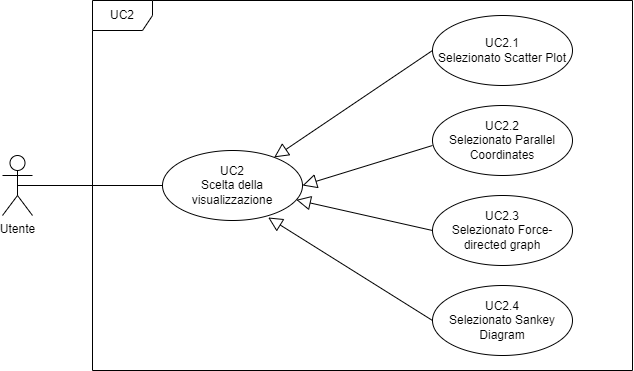
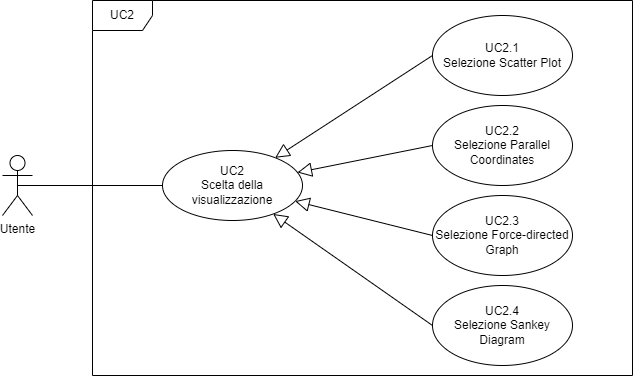
Corretto tempo verbale immagine + testo

diff --git a/documenti/Analisi-dei-requisiti/sezioni/casi_uso.tex b/documenti/Analisi-dei-requisiti/sezioni/casi_uso.tex
@@ -82,48 +82,48 @@ Non essendo richiesto nessun tipo di servizio di autenticazione o più in genera
     \end{itemize} 
 \end{itemize}
 
-\subsubsection{UC2.1 - Selezionato Scatter Plot}
+\subsubsection{UC2.1 - Selezione Scatter Plot}
 \label{sec:UC2.1}
 \begin{itemize}
     \item \textbf{Attore primario}: Utente.
     \item \textbf{Precondizioni}: Il ${\mathrm{dataset^{G}}}$ è stato caricato correttamente [UC2].
-    \item \textbf{Postcondizioni}: Viene mostrata la visualizzazione $Scatter$ $Plot^{G}$ scelta dall'utente con possibilità di selezionare una diversa vista$^{G}$ \hyperref[sec:UC3]{UC3} e personalizzare lo stile \hyperref[sec:UC5.1]{UC5.1}. %inserire il numero corretto dello stile e delle dimensioni
+    \item \textbf{Postcondizioni}: Viene mostrata la visualizzazione $Scatter$ $Plot^{G}$ scelta dall'utente con possibilità di selezionare una diversa vista$^{G}$ \hyperref[sec:UC3]{UC3} e personalizzare grafico e stile \hyperref[sec:UC5.1]{UC5.1}. %inserire il numero corretto dello stile e delle dimensioni
     \item \textbf{Scenario principale}:
           \begin{enumerate}
               \item L'utente seleziona il grafico $Scatter$ $Plot^{G}$ e il sistema ritorna tale grafico con conseguente possibilità di personalizzazione. 
           \end{enumerate}
 \end{itemize}
 
-\subsubsection{UC2.2 - Selezionato Parallel Coordinates}
+\subsubsection{UC2.2 - Selezione Parallel Coordinates}
 \label{sec:UC2.2}
 \begin{itemize}
     \item \textbf{Attore primario}: Utente.
     \item \textbf{Precondizioni}: Il ${\mathrm{dataset^{G}}}$ è stato caricato correttamente [UC2].
-    \item \textbf{Postcondizioni}: Viene mostrata la visualizzazione $Parallel$ $Coordinates^{G}$ scelta dall'utente con possibilità di selezionare una diversa vista$^{G}$ \hyperref[sec:UC3]{UC3} e personalizzare lo stile \hyperref[sec:UC5.2]{UC5.2}. %inserire il numero corretto dello stile e delle dimensioni
+    \item \textbf{Postcondizioni}: Viene mostrata la visualizzazione $Parallel$ $Coordinates^{G}$ scelta dall'utente con possibilità di selezionare una diversa vista$^{G}$ \hyperref[sec:UC3]{UC3} e personalizzare grafico e stile \hyperref[sec:UC5.2]{UC5.2}. %inserire il numero corretto dello stile e delle dimensioni
     \item \textbf{Scenario principale}:
           \begin{enumerate}
               \item L'utente seleziona il grafico $Parallel$ $Coordinates^{G}$ e il sistema ritorna tale grafico con conseguente possibilità di personalizzazione. 
           \end{enumerate}
 \end{itemize}
 
-\subsubsection{UC2.3 - Selezionato Force-directed Graph}
+\subsubsection{UC2.3 - Selezione Force-directed Graph}
 \label{sec:UC2.3}
 \begin{itemize}
     \item \textbf{Attore primario}: Utente.
     \item \textbf{Precondizioni}: Il ${\mathrm{dataset^{G}}}$ è stato caricato correttamente [UC2].
-    \item \textbf{Postcondizioni}: Viene mostrata la visualizzazione $Force-directed$ $Graph^{G}$ scelta dall'utente con possibilità di selezionare una diversa vista$^{G}$ \hyperref[sec:UC3]{UC3} e personalizzare lo stile \hyperref[sec:UC5.3]{UC5.3}. %inserire il numero corretto dello stile e delle dimensioni
+    \item \textbf{Postcondizioni}: Viene mostrata la visualizzazione $Force-directed$ $Graph^{G}$ scelta dall'utente con possibilità di selezionare una diversa vista$^{G}$ \hyperref[sec:UC3]{UC3} e personalizzare grafico e stile \hyperref[sec:UC5.3]{UC5.3}. %inserire il numero corretto dello stile e delle dimensioni
     \item \textbf{Scenario principale}:
           \begin{enumerate}
               \item L'utente seleziona il grafico $Force-directed$ $Graph^{G}$ e il sistema ritorna tale grafico con conseguente possibilità di personalizzazione. 
           \end{enumerate}
 \end{itemize}
 
-\subsubsection{UC2.4 - Selezionato Sankey Diagram}
+\subsubsection{UC2.4 - Selezione Sankey Diagram}
 \label{sec:UC2.4}
 \begin{itemize}
     \item \textbf{Attore primario}: Utente.
     \item \textbf{Precondizioni}: Il ${\mathrm{dataset^{G}}}$ è stato caricato correttamente [UC2].
-    \item \textbf{Postcondizioni}: Viene mostrata la visualizzazione $Sankey$ $Diagram^{G}$ scelta dall'utente con possibilità di selezionare una diversa vista$^{G}$ \hyperref[sec:UC3]{UC3} e personalizzare lo stile \hyperref[sec:UC5.4]{UC5.4}. %inserire il numero corretto dello stile e delle dimensioni
+    \item \textbf{Postcondizioni}: Viene mostrata la visualizzazione $Sankey$ $Diagram^{G}$ scelta dall'utente con possibilità di selezionare una diversa vista$^{G}$ \hyperref[sec:UC3]{UC3} e personalizzare grafico e stile \hyperref[sec:UC5.4]{UC5.4}. %inserire il numero corretto dello stile e delle dimensioni
     \item \textbf{Scenario principale}:
           \begin{enumerate}
               \item L'utente seleziona il grafico $Sankey$ $Diagram^{G}$ e il sistema ritorna tale grafico con conseguente possibilità di personalizzazione. 
@@ -252,7 +252,7 @@ Non essendo richiesto nessun tipo di servizio di autenticazione o più in genera
         \item Personalizzazione dello stile \hyperref[sec:UC5.1.2]{UC5.1.2}.
     \end{enumerate}
 \end{itemize}
-\paragraph{UC5.1.1 - Associazione delle ${\mathrm{dimensioni^{G}}}$ agli assi}
+\paragraph{UC5.1.1 - Associazione delle dimensioni agli assi}
 \label{sec:UC5.1.1}
     \begin{itemize}
         \item \textbf{Attore primario:} Utente.
@@ -302,7 +302,7 @@ Non essendo richiesto nessun tipo di servizio di autenticazione o più in genera
     \end{enumerate}
 \end{itemize}
 
-\paragraph{UC5.2.1 - Associazione delle ${\mathbf{dimensioni^{G}}}$}
+\paragraph{UC5.2.1 - Associazione delle dimensioni}
 \label{sec:UC5.2.1}
     \begin{itemize}
         \item \textbf{Attore primario:} Utente.
@@ -730,7 +730,7 @@ Non essendo richiesto nessun tipo di servizio di autenticazione o più in genera
 	\end{enumerate}
 \end{itemize}
 
-\paragraph{UC11.2.1 - Associazione delle ${\mathbf{dimensioni^{G}}}$ agli assi}
+\paragraph{UC11.2.1 - Associazione delle dimensioni agli assi}
 \label{sec:UC11.2.1}
     \begin{itemize}
         \item \textbf{Attore primario:} Utente.
@@ -770,7 +770,7 @@ Non essendo richiesto nessun tipo di servizio di autenticazione o più in genera
 	\end{enumerate}
 \end{itemize}
 
-\paragraph{UC11.3.1 - Associazione delle ${\mathbf{dimensioni^{G}}}$ agli assi}
+\paragraph{UC11.3.1 - Associazione delle dimensioni agli assi}
 \label{sec:UC11.3.1}
     \begin{itemize}
         \item \textbf{Attore primario:} Utente.
